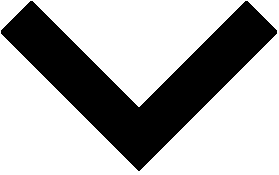
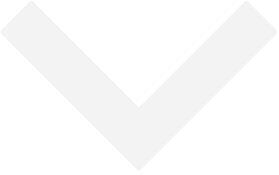
gran modificacio: Nova barra navegacio afegida en color negre

diff --git a/css/barraNavegacion.css b/css/barraNavegacion.css
@@ -1,5 +1,8 @@
 nav {
     background-color: var(--colorBarraNavegacion);
+    color: white;
+    padding-top: 1.2em;
+    padding-bottom: 1.2em;
 }
 
 nav ul {
@@ -7,48 +10,66 @@ nav ul {
     grid-template-columns: repeat(4,1fr);  /*definimos las 4 columnas con 4 fracciones de grid*/
     text-align: center;     /*centramos el texto de cada elemento de navegación dentro de su columna*/ 
     list-style-type: none;  /*quitamos los bullet points de la lista que conforma la barra de navegación -no debe haberlos-*/
-    font-size: 1.6em;
+    font-size: 1em;
 
-    max-width: var(--MaximaAnchuraPagina); /*tamaño máximo horizontal*/
+    max-width: var(--MaximaAnchuraBarraNavegacion); /*tamaño máximo horizontal*/
     margin: 0 auto; /*al definir tamaño máximo hay que centrarlo si no queda pegado a la izquierda. Usamos propiedad shorthand de margin.*/    
 }
 
 
+/* ---- INICIO ÁREA COMENTARIO 1 ---- */
 
-/* ---- ÁREA COMENTARIO 1 ---- : 
+/* Queremos conseguir que en condiciones normales (sin hacer hover encima de los elementos de la navbar) 
+haya en todo momento una border "invisible" debajo de cada li de la barra de navegación. Para ello haremos esta border
+del mismo color que la barra de navegación. 
 
-Queremos separar cada elemento li de navegación de su elemento contiguo
-con una barra vertical; pero sin que la barra vertical esté duplicada.
-Para ello usaremos "border-right". Sin embargo, al usar "border-right" 
-debemos evitar también que esta barra aparezca en el último elemento [véase *A*]. 
+Ello tiene una implicación importante. Su existencia permitirá que
+al hacer hover sobre un li, al cambiar el color de la misma [B]
+la border-bottom no nos moverá los elementos de la web que quedan por debajo cada vez que 
+pasemos el ratón por encima [A] y que está definida. Se puede comprobar el problema que habría si borrásemos la linea comentada
+con [A]*/
 
-Queremos conseguir también que haya una border debajo de cada li de la barra 
-de navegación, y que esta sea exactament del mismo color que la border original 
--que no la veamos-. De este modo podremos conseguir que el hover de cambio de color de 
-la border-bottom no nos mueva los elementos de la web que queden por debajo cada vez que 
-pasemos el ratón por encima [B]:*/
+nav ul li span {
+    border-bottom: 2px solid var(--colorBarraNavegacion); /*[A}*/
 
-nav ul li {
-    border-right: 1px solid white; /*A*/
-    border-bottom: 2px solid var(--colorBarraNavegacion); /*B*/
-
-    /*hacemos que cambios propiedades sean graduales 
-    en entrada y salida (para el hover)*/
+    /*hacemos que cambios de propiedades sean graduales en entrada y salida (para el hover)*/
     transition: background-color var(--tiempoTransicionEstandar) ease-in-out, 
                 border-bottom var(--tiempoTransicionEstandar) ease-in-out;
+
+    /*Conseguimos que cada border inferior de cada li, al hacer hover, se acote solamente al texto que ocupa: */
+    margin: 0 auto;
+    
 }
 
-nav ul li:last-child {border-right: none;/*A*/}
-
-/*queremos que cada elemento de navegación se mueva*/
-nav ul li:hover {
-    background-color: var(--colorBarraNavegacionHover);
-    border-bottom: 2px solid white;
+/*queremos que cada elemento del menú de navegación sea dinámico al pasar por encima*/
+nav ul li span:hover {
+    color: var(--colorBarraNavegacionHover);
+    border-bottom: 2px solid var(--colorBarraNavegacionHover); /*[B]*/
 }   
 
 
 /* ---- FIN ÁREA COMENTARIO 1 ---- */
 
 nav ul li img {
-    margin: 0 0 .1em 0;
+    margin: 0 0 .05em 0; /*Subimos un pelín la flecha del desplegable hacia arriba*/
+    width: 9%;
+    
+}
+
+/*SITUAMOS EL li de "Servicios" un poco más cerca de quienes somos*/
+nav ul li:first-child {
+    position: relative;
+    left: 0.8em;
+}
+
+/*SITUAMOS EL li "Contacto" un poco mas cerca de "Incorpórate"*/
+nav ul li:last-child {
+    position: relative;
+    right: 1.4em;
+}
+
+/*NOTA: PUEDE QUE NOS INTERESE DEFINIRLO COMO UN ESTILO GLOBAL SOLO CON a*/
+nav ul li a {
+    text-decoration: none; /*Quitamos los subrayados vestigiales de los links, que sino se ven en el hover!*/
+    color: inherit;        /*heretamos el color de sus padres, definidos en li y el nav: el blanco y el gris en el hover.*/
 }

diff --git a/index.html b/index.html
@@ -3,7 +3,11 @@
 <head>
     <meta charset="UTF-8">
     <meta name="viewport" content="width=device-width, initial-scale=1.0">
-    <title>Document</title>
+    <title>black code consulting</title>
+
+    <!--Cargamos la fuente roboto de google fonts -->
+    <link href="https://fonts.googleapis.com/css2?family=Roboto:wght@400;700&display=swap" rel="stylesheet">
+    
 
 
     <link rel="stylesheet" href="css/estilosGlobales.css">
@@ -21,12 +25,13 @@
     <!-- SECCIÓN 0 (S0) -- HEADER: barra de navegación-->
     <header>
         <nav>
-            <!-- Aplicamos estilos para la barra de navegación -->
+            <!-- Aplicamos estilos para la barra de navegación -crucial añadir elemento span para poder tratar la imagen aparte -->
             <ul>
-                <li>Servicios <img src="img/flechaDesplegablePaint.png" alt="x" width="6%"></li>
-                <li>Quienes somos</li>
-                <li>Incorpórate</li>
-                <li>Contacto</li>
+                <li><span>Servicios</span> <img src="img/flechaDesplegablePaint.png" alt="v"></li>
+                <li><span><a href="#">Quiénes somos</a></span></li>
+                <li><span><a href="#">Incorpórate</a></span></li>
+                <li><span><a href="#">Contacto</a></span></li>
+                
             </ul>
         </nav>
     </header>
@@ -44,8 +49,8 @@
 
             <!--last child del contenido-->
             <div>
-                <img src="img/imgMobil.png" alt="teléfono no cargó" width="30%">
-                <img src="img/pc.png" alt="portatil no cargó" width="50%">
+                <img src="img/imgMobil.png" alt="teléfono no cargó">
+                <img src="img/pc.png" alt="portatil no cargó">
             </div>
         </div>
         <svg viewBox="0 0 1440 320" class="onda-svg">

diff --git a/css/estilosGlobales.css b/css/estilosGlobales.css
@@ -5,8 +5,8 @@
 
     /*paleta de colores (mejorable
      con mejores conocimientos)*/
-     --colorBarraNavegacion: rgb(12, 231, 45);
-     --colorBarraNavegacionHover: rgb(85, 162, 47);
+     --colorBarraNavegacion: rgb(0, 0, 0);
+     --colorBarraNavegacionHover: rgb(170, 170, 170);
 
     --colorFinGradiente: #F652A2;
     --colorInicioGradiente: #4b238f;
@@ -17,7 +17,8 @@
 
     /*otras variables susceptibles
     de cambio en función de decisiones futuras*/
-    --MaximaAnchuraPagina: 1000px;
+    --MaximaAnchuraBarraNavegacion: 600px;
+    --MaximaAnchuraContenedorOnda: 1000px;
     --tiempoTransicionEstandar: 0.15s;
 }
 
@@ -28,7 +29,17 @@ para ganar más control en el diseño de la web.*/
     padding: 0;
 }
 
-/*buscamos una fuente similar a la que usa google*/
+/*buscamos la fuente que recomienda figma, roboto. La hemos */
 body {
     font-family: 'Roboto', sans-serif;
+    font-weight: 500;
+    /*Querríamos la semi-bold! Para ello podríamos usar la respuesta de Jesús Carrera 
+    donde se recomienda usar font-weight: 600
+    ( https://stackoverflow.com/questions/8735872/how-do-i-set-semi-bold-font-via-css-font-weight-of-600-doesnt-make-it-look-l ).
+    
+    Sin embargo font-weight: 600 usa una negrita excesiva más gruesa que la roboto semi-bold de figma, 
+    mientras que fontweight: 500 es lo mismo que dejar el font-weight por defecto. Por lo tanto no podemos definir 
+    la letra para la navbar exactamente igual que en figma.
+    */
+
 }

diff --git a/css/contenedorOnda.css b/css/contenedorOnda.css
@@ -31,7 +31,7 @@
 
     padding: 1em;
 
-    max-width: var(--MaximaAnchuraPagina);
+    max-width: var(--MaximaAnchuraContenedorOnda);
     
 }
 
@@ -52,7 +52,10 @@
     la empresa NO va a a expandirse horizontalmente
     ni verticalmente más allá de lo que ocupa su texto*/
     margin: auto auto;
+
 }
+
+
 
 
 /*NOTA: VER NOTA EN .contenido > div:first-child*/
@@ -72,6 +75,7 @@
     position: absolute; /*[C]*/
     right: 10em;
     z-index: 2; /*el teléfono va delante del ordenador*/
+    width: 30%; /*anchura de la imagen del teléfono*/
     
 }
 
@@ -81,6 +85,7 @@
     left: 10em;
     top: -1em;
     z-index: 1; /*el ordenador va detrás del telefono*/
+    width: 50%; /*anchura de la imagen del ordenador*/
 }
 
 
@@ -110,6 +115,7 @@ el ratón por encima*/
 #colorBlackTitulo {
     color: var(--colorGris);
 }
+
 #colorCodeTitulo {
     color: var(--colorVerdeVue);
 }
